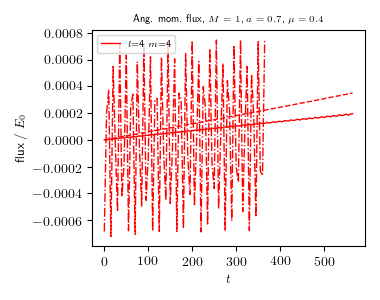
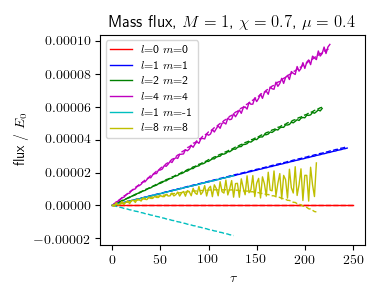
new plots

diff --git a/Analysis/scripts/plot_ang_mom_flux_compare_lm.py b/Analysis/scripts/plot_ang_mom_flux_compare_lm.py
@@ -26,7 +26,7 @@ R_min = 5
 R_max = 500
 average_time = False
 av_n = 1
-plot_mass=False
+plot_ang_mom=False
 cumulative=True
 
 # appropriate \int Ylm Ylm^* cos(2 theta) dtheta dphi factor for 0 <= l <= 10
@@ -55,21 +55,19 @@ def analytic_flux(t, R, l, m, a, mu, cumulative):
 		\int Ylm Ylm^* cos(2 theta) dtheta dphi = 1 
 	# """
 	if not cumulative:
-		
-
-                F0=(m*tau)/2+1/2*m*np.sin(tau)*np.cos(tau)
-                F1=1/2*m*tau*(L-np.cos(2*tau))-1/4*(L-1)*m*np.sin(2*tau)
-                F2=(m*tau*(3*a**2*mu*cos2theta+7*a**2*mu+12*a*m+3*(L-1)*mu*np.cos(2*tau)-4*L*mu))/(4*mu)+(m*np.sin(2*tau)*(-3*a**2*mu*cos2theta-7*a**2*mu-12*a*m+(L+3)*mu))/(8*mu)-m*tau**2*np.sin($
-                F3=(1/(2*mu))*m*tau*(-3*a**2*mu*cos2theta-mu*(a**2+2*L-5)*np.cos(2*tau)+mu*(a**2*(L-11)-L+10)-12*a*m)+(m*np.sin(2*tau)*(3*a**2*mu*cos2theta+a**2*(-(L-12))*mu+12*a*m+3*(L-5)*mu))/($
-                F4=-(1/(24*mu))*m*tau**3*(3*a**2*mu*cos2theta+mu*(9*a**2+L*(3*L+14)-35)+12*a*m+(L+5)*mu*np.cos(2*tau))-(m*tau**2*np.sin(2*tau)*(a**2*mu*cos2theta+mu*(11*a**2+L*(L+3)-20)+4*a*m))/($
-        elif cumulative:
-                F0=(m*tau**2)/(4*mu)+(m*(np.sin(tau)**2))/(4*mu)
-                F1=(L*m*tau**2)/(4*mu)-((L-2)*m*(np.sin(tau)**2))/(4*mu)-(m*tau*np.sin(tau)*np.cos(tau))/(2*mu)
-                F2=(m*tau**2*(3*a**2*mu*cos2theta+7*a**2*mu+12*a*m-4*L*mu+2*mu*np.cos(2*tau)))/(8*mu**2)-(m*(np.sin(tau)**2)*(3*a**2*mu*cos2theta+7*a**2*mu+12*a*m+2*(L-4)*mu))/(8*mu**2)+((3*L-5)*$
-                F3=-((m*tau**2*(6*a**2*mu*cos2theta+2*mu*(a**2*(-(L-11))+L-10)+24*a*m+L*mu*np.cos(2*tau)))/(8*mu**2))+(m*(np.sin(tau)**2)*(6*a**2*mu*cos2theta-2*a**2*(L-13)*mu+24*a*m+(9*L-40)*mu)$
-                F4=-((m*tau**4*(3*a**2*mu*cos2theta+mu*(9*a**2+L*(3*L+14)-35)+12*a*m+mu*np.cos(2*tau)))/(96*mu**2))-(m*tau*np.sin(2*tau)*(3*a**2*mu*cos2theta+3*a**2*(15-4*L)*mu+12*a*m+(L*(3*L+10)$
-        Flux = F0 + F1/r + F2/r**2 + F3/r**3 + F4/r**4
-        return Flux
+		F0=-(m*tau)/2+1/2*m*np.sin(tau)*np.cos(tau)
+		F1=1/2*m*tau*(L-np.cos(2*tau))-1/4*(L-1)*m*np.sin(2*tau)
+		F2=(m*tau*(3*a**2*mu*cos2theta+7*a**2*mu+12*a*m+3*(L-1)*mu*np.cos(2*tau)-4*L*mu))/(4*mu)+(m*np.sin(2*tau)*(-3*a**2*mu*cos2theta-7*a**2*mu-12*a*m+(L+3)*mu))/(8*mu)-m*tau**2*np.sin(tau)*np.cos(tau)
+		F3=(1/(2*mu))*m*tau*(-3*a**2*mu*cos2theta-mu*(a**2+2*L-5)*np.cos(2*tau)+mu*(a**2*(L-11)-L+10)-12*a*m)+(m*np.sin(2*tau)*(3*a**2*mu*cos2theta+a**2*(-(L-12))*mu+12*a*m+3*(L-5)*mu))/(4*mu)+1/6*m*tau**3*(3*L+np.cos(2*tau)-4)+1/4*(L+1)*m*tau**2*np.sin(2*tau)
+		F4=-(1/(24*mu))*m*tau**3*(3*a**2*mu*cos2theta+mu*(9*a**2+L*(3*L+14)-35)+12*a*m+(L+5)*mu*np.cos(2*tau))-(m*tau**2*np.sin(2*tau)*(a**2*mu*cos2theta+mu*(11*a**2+L*(L+3)-20)+4*a*m))/(16*mu)+(1/(4*mu))*tau*(a**2*m*(3*a**2*mu*cos2theta+9*a**2*mu+12*a*m+(3*L-7)*mu*np.cos(2*tau)-8*mu)+m*(np.sin(tau)**2)*(a**2*mu*cos2theta+mu*(3*a**2+L*(L+4)-15)+4*a*m))-(3*a**2*m*np.sin(tau)*np.cos(tau)*(a**2*mu*cos2theta+mu*(3*a**2+L-5)+4*a*m))/(4*mu)-(m*tau**5)/24+1/48*m*tau**4*np.sin(2*tau)
+	elif cumulative:
+		F0=(-(m*tau**2)/4+1/4*m*(np.sin(tau)**2))/mu
+		F1=(1/4*L*m*tau**2-1/4*(L-2)*m*(np.sin(tau)**2)-1/2*m*tau*np.sin(tau)*np.cos(tau))/mu
+		F2=((m*tau**2*(3*a**2*mu*cos2theta+7*a**2*mu+12*a*m-4*L*mu+2*mu*np.cos(2*tau)))/(8*mu)-(m*(np.sin(tau)**2)*(3*a**2*mu*cos2theta+7*a**2*mu+12*a*m+2*(L-4)*mu))/(8*mu)+1/8*(3*L-5)*m*tau*np.sin(2*tau))/mu
+		F3=(-((m*tau**2*(6*a**2*mu*cos2theta+2*mu*(a**2*(-(L-11))+L-10)+24*a*m+L*mu*np.cos(2*tau)))/(8*mu))+(m*(np.sin(tau)**2)*(6*a**2*mu*cos2theta-2*a**2*(L-13)*mu+24*a*m+(9*L-40)*mu))/(8*mu)-1/8*m*tau*(2*a**2+3*L-10)*np.sin(2*tau)+1/24*(3*L-4)*m*tau**4+1/6*m*tau**3*np.sin(tau)*np.cos(tau))/mu
+		F4=(-((m*tau**4*(3*a**2*mu*cos2theta+mu*(9*a**2+L*(3*L+14)-35)+12*a*m+mu*np.cos(2*tau)))/(96*mu))-(m*tau*np.sin(2*tau)*(3*a**2*mu*cos2theta+3*a**2*(15-4*L)*mu+12*a*m+(L*(3*L+10)-54)*mu))/(32*mu)+(1/(32*mu))*m*tau**2*(8*(6*a**3+a)*m+a**2*mu*cos2theta*(12*a**2+np.cos(2*tau)+2)+np.cos(2*tau)*(11*a**2*mu+4*a*m+(L-4)*(L+6)*mu)+2*mu*(18*a**4-13*a**2+L*(L+4)-15))+(1/(32*mu))*m*(np.sin(tau)**2)*(-36*a**4*mu-48*a**3*m+3*(1-4*a**2)*a**2*mu*cos2theta+3*a**2*(35-8*L)*mu+12*a*m+(L*(3*L+10)-54)*mu)-1/48*(L+4)*m*tau**3*np.sin(2*tau)-(m*tau**6)/144)/mu
+	Flux = -(F0 + F1/r + F2/r**2 + F3/r**3 + F4/r**4)
+	return Flux
 
 class data_dir:
 	def __init__(self, num, l, m, a, mu, Al, nphi, ntheta, suffix):
@@ -97,7 +95,7 @@ class data_dir:
 		self.inner_ang_mom_flux = -flux_data[1:,1]/E0
 		self.outer_ang_mom_flux = -flux_data[1:,2]/E0	
 		if cumulative:
-			dt = self.tflux[2] - self.tflux[1]
+			dt = (flux_data[2,0] - flux_data[1,0])
 			#inner_ang_mom_flux = np.cumsum(inner_ang_mom_flux)*dt
 			self.outer_ang_mom_flux = np.cumsum(self.outer_ang_mom_flux)*dt
 		self.analytic_outer_flux = analytic_flux(self.tflux, self.r_max, self.l, self.m, self.a, mu, cumulative)*(4*np.pi)*phi0**2/E0
@@ -110,7 +108,7 @@ class data_dir:
 				self.dang_mom = (ang_mom_data[1:,1] - ang_mom_data[0,1])/E0
 			elif not cumulative:
 				self.tang_mom = ang_mom_line_data[:-1,0]
-				dt = tang_mom[1] - tang_mom[0]
+				dt = ang_mom_data[2,0] - ang_mom_data[1,0]
 				self.tang_mom_mean = 0.5*(self.tang_mom[1:]+self.tang_mom[:-1])
 				self.dang_mom = (ang_mom_line_data[1:,1] - ang_mom_line_data[:-1,1])/(E0*dt)
 				
@@ -137,26 +135,28 @@ run0016_l1_m-1_a0.99_Al0_mu0.4_M1_IsoKerr
 run0017_l1_m1_a0.99_Al0.5_mu0.4_M1_IsoKerr
 run0018_l1_m1_a0.99_Al0.25_mu0.4_M1_IsoKerr"""
 
-#add_data_dir(2, 0, 0, "0.7", "0.4", "0", 64, 64, "_theta_max0.99")
-#add_data_dir(5, 1, 1, "0.7", "0.4", "0", 64, 64, "_theta_max0.99")
-#add_data_dir(7, 2, 2, "0.7", "0.4", "0", 64, 64, "_theta_max0.99")
-#add_data_dir(8, 4, 4, "0.7", "0.4", "0", 64, 64, "_theta_max0.99")
-#add_data_dir(9, 1, -1, "0.7", "0.4", "0", 64, 64, "_theta_max0.99")
+add_data_dir(2, 0, 0, "0.7", "0.4", "0", 64, 64, "_theta_max0.99")
+add_data_dir(5, 1, 1, "0.7", "0.4", "0", 64, 64, "_theta_max0.99")
+add_data_dir(7, 2, 2, "0.7", "0.4", "0", 64, 64, "_theta_max0.99")
+add_data_dir(8, 4, 4, "0.7", "0.4", "0", 64, 64, "_theta_max0.99")
+add_data_dir(9, 1, -1, "0.7", "0.4", "0", 64, 64, "_theta_max0.99")
+add_data_dir(10, 8, 8, "0.7", "0.4", "0", 64, 64, "_theta_max0.99")
+
 #add_data_dir(15, 1, 1, "0.7", "0.4", "0.5", 64, 64, "_theta_max0.99")
 
-add_data_dir(6, 1, 1, "0.99", "0.4", "0", 64, 64, "_theta_max0.99")
+#add_data_dir(6, 1, 1, "0.99", "0.4", "0", 64, 64, "_theta_max0.99")
 #add_data_dir(16, 1, -1, "0.99", "0.4", "0", 64, 64, "_theta_max0.99")
-add_data_dir(17, 1, 1, "0.99", "0.4", "0.5", 64, 64, "_theta_max0.99")
-add_data_dir(18, 1, 1, "0.99", "0.4", "0.25", 64, 64, "_theta_max0.99")
+#add_data_dir(17, 1, 1, "0.99", "0.4", "0.5", 64, 64, "_theta_max0.99")
+#add_data_dir(18, 1, 1, "0.99", "0.4", "0.25", 64, 64, "_theta_max0.99")
 
 def plot_graph():
 	# plot setup
 	ax1 = plt.axes()
 	fig = plt.gcf()
 	fig.set_size_inches(3.8,3)
-	font_size = 5
-	title_font_size = 7
-	label_size = 9
+	font_size = 10
+	title_font_size = 10
+	label_size = 10
 	legend_font_size = 8
 	rc('xtick',labelsize=font_size)
 	rc('ytick',labelsize=font_size)
@@ -166,32 +166,35 @@ def plot_graph():
 	i = 0
 	for dd in data_dirs:
 		dd.load_data()
+		mu = float(dd.mu)
 		#net_flux = outer_ang_mom_flux - inner_ang_mom_flux
 		#label_ = "$\\mu$={:.2f}".format(mu)
-		#label_ = "$l$={:d} $m$={:d}".format(dd.l, dd.m)
-		label_ = "$m$={:d} $\\alpha$={:s}".format(dd.m, dd.Al)
+		label_ = "$l$={:d} $m$={:d}".format(dd.l, dd.m)
+		#label_ = "$m$={:d} $\\alpha$={:s}".format(dd.m, dd.Al)
 		#ax1.plot(dd.tflux,dd.inner_ang_mom_flux,colours[i]+":", label="flux into $R_+$ "+label_)
-		ax1.plot(dd.tflux,dd.outer_ang_mom_flux,colours[i]+"-", label=label_, linewidth=1)
-		ax1.plot(dd.tflux,dd.analytic_outer_flux,colours[i]+"--", label="_4th order t$\\mu$/r analytic flux into R={:.1f} ".format(R_max)+label_, linewidth=1)
+		ax1.plot(dd.tflux*mu,dd.outer_ang_mom_flux,colours[i]+"-", label=label_, linewidth=1)
+		ax1.plot(dd.tflux*mu,dd.analytic_outer_flux,colours[i]+"--", label="_4th order t$\\mu$/r analytic flux into R={:.1f} ".format(R_max)+label_, linewidth=1)
 		#
 		if plot_ang_mom:
 			if cumulative:
-				ax1.plot(dd.tang_mom,dd.dang_mom,colours[i]+"-.", label="_change in ang_mom $R_+<R<${:.1f} ".format(R_max)+label_, linewidth=1)
+				ax1.plot(dd.tang_mom*mu,dd.dang_mom,colours[i]+"-.", label="_change in ang_mom $R_+<R<${:.1f} ".format(R_max)+label_, linewidth=1)
 			elif not cumulative:
-				ax1.plot(dd.tang_mom,dd.dang_mom,colours[i]+"-.", label="_rate of change in ang_mom $R_+<R<${:.1f} ".format(R_max)+label_, linewidth=1)
+				ax1.plot(dd.tang_mom*mu,dd.dang_mom,colours[i]+"-.", label="_rate of change in ang_mom $R_+<R<${:.1f} ".format(R_max)+label_, linewidth=1)
 		i = i + 1
-	ax1.set_xlabel("$t$", fontsize=label_size)
+	ax1.set_xlabel("$\\tau$", fontsize=label_size)
 	#ax1.set_xlim((0, 200))
 	#ax1.set_ylim((0, 0.00001))
 	if cumulative:
 		ax1.set_ylabel("cumulative flux / $E_0$", fontsize=label_size)
-		ax1.set_title("Cumulative ang. mom. flux, $M=1$, $\\mu=0.4$, $l=1$; diff from $\\alpha=0, m=1$", wrap=True, fontsize=title_font_size)
-		save_path = home_path + "plots/ang_mom_flux_in_R{:.0f}_IsoKerr_compare_Al.png".format(R_max)
+		ax1.set_title("Cumulative ang. mom. flux, $M=1$, $\\chi=0.7$, $\\mu=0.4$", wrap=True, fontsize=title_font_size)
+		save_path = home_path + "plots/ang_mom_flux_in_R{:.0f}_IsoKerr_compare_lm_cumulative.png".format(R_max)
 	else:
 		ax1.set_ylabel("flux / $E_0$", fontsize=label_size)
-		plt.title("Mass flux, $M=1$, $\\mu=0.4$, $l=1$")
-		save_path = home_path + "plots/ang_mom_flux_in_R{:.0f}_IsoKerr_compare_Al.png".format(R_max)
+		plt.title("Mass flux, $M=1$, $\\chi=0.7$, $\\mu=0.4$")
+		save_path = home_path + "plots/ang_mom_flux_in_R{:.0f}_IsoKerr_compare_lm.png".format(R_max)
 	ax1.legend(loc='upper left', fontsize=legend_font_size)
+	plt.xticks(fontsize=font_size)
+	plt.yticks(fontsize=font_size)
 	plt.tight_layout()
 	plt.savefig(save_path)
 	print("saved plot as " + str(save_path))

diff --git a/Analysis/scripts/plot_ang_mom_flux.py b/Analysis/scripts/plot_ang_mom_flux.py
@@ -26,8 +26,8 @@ R_min = 5
 R_max = 500
 average_time = False
 av_n = 1
-plot_mass=False
-cumulative=True
+plot_ang_mom=False
+cumulative=False
 
 # appropriate \int Ylm Ylm^* cos(2 theta) dtheta dphi factor for 0 <= l <= 10
 cos2theta_integrals = [[-(1/3)],[1/5,-(3/5)],[1/21,-(1/7),-(5/7)],\
@@ -55,19 +55,19 @@ def analytic_flux(t, R, l, m, a, mu, cumulative):
 		\int Ylm Ylm^* cos(2 theta) dtheta dphi = 1 
 	# """
 	if not cumulative:
-                F0=(m*tau)/2+1/2*m*np.sin(tau)*np.cos(tau)
-                F1=1/2*m*tau*(L-np.cos(2*tau))-1/4*(L-1)*m*np.sin(2*tau)
-                F2=(m*tau*(3*a**2*mu*cos2theta+7*a**2*mu+12*a*m+3*(L-1)*mu*np.cos(2*tau)-4*L*mu))/(4*mu)+(m*np.sin(2*tau)*(-3*a**2*mu*cos2theta-7*a**2*mu-12*a*m+(L+3)*mu))/(8*mu)-m*tau**2*np.sin($
-                F3=(1/(2*mu))*m*tau*(-3*a**2*mu*cos2theta-mu*(a**2+2*L-5)*np.cos(2*tau)+mu*(a**2*(L-11)-L+10)-12*a*m)+(m*np.sin(2*tau)*(3*a**2*mu*cos2theta+a**2*(-(L-12))*mu+12*a*m+3*(L-5)*mu))/($
-                F4=-(1/(24*mu))*m*tau**3*(3*a**2*mu*cos2theta+mu*(9*a**2+L*(3*L+14)-35)+12*a*m+(L+5)*mu*np.cos(2*tau))-(m*tau**2*np.sin(2*tau)*(a**2*mu*cos2theta+mu*(11*a**2+L*(L+3)-20)+4*a*m))/($
-        elif cumulative:
-                F0=(m*tau**2)/(4*mu)+(m*(np.sin(tau)**2))/(4*mu)
-                F1=(L*m*tau**2)/(4*mu)-((L-2)*m*(np.sin(tau)**2))/(4*mu)-(m*tau*np.sin(tau)*np.cos(tau))/(2*mu)
-                F2=(m*tau**2*(3*a**2*mu*cos2theta+7*a**2*mu+12*a*m-4*L*mu+2*mu*np.cos(2*tau)))/(8*mu**2)-(m*(np.sin(tau)**2)*(3*a**2*mu*cos2theta+7*a**2*mu+12*a*m+2*(L-4)*mu))/(8*mu**2)+((3*L-5)*$
-                F3=-((m*tau**2*(6*a**2*mu*cos2theta+2*mu*(a**2*(-(L-11))+L-10)+24*a*m+L*mu*np.cos(2*tau)))/(8*mu**2))+(m*(np.sin(tau)**2)*(6*a**2*mu*cos2theta-2*a**2*(L-13)*mu+24*a*m+(9*L-40)*mu)$
-                F4=-((m*tau**4*(3*a**2*mu*cos2theta+mu*(9*a**2+L*(3*L+14)-35)+12*a*m+mu*np.cos(2*tau)))/(96*mu**2))-(m*tau*np.sin(2*tau)*(3*a**2*mu*cos2theta+3*a**2*(15-4*L)*mu+12*a*m+(L*(3*L+10)$
-        Flux = F0 + F1/r + F2/r**2 + F3/r**3 + F4/r**4
-        return Flux
+		F0=-(m*tau)/2+1/2*m*np.sin(tau)*np.cos(tau)
+		F1=1/2*m*tau*(L-np.cos(2*tau))-1/4*(L-1)*m*np.sin(2*tau)
+		F2=(m*tau*(3*a**2*mu*cos2theta+7*a**2*mu+12*a*m+3*(L-1)*mu*np.cos(2*tau)-4*L*mu))/(4*mu)+(m*np.sin(2*tau)*(-3*a**2*mu*cos2theta-7*a**2*mu-12*a*m+(L+3)*mu))/(8*mu)-m*tau**2*np.sin(tau)*np.cos(tau)
+		F3=(1/(2*mu))*m*tau*(-3*a**2*mu*cos2theta-mu*(a**2+2*L-5)*np.cos(2*tau)+mu*(a**2*(L-11)-L+10)-12*a*m)+(m*np.sin(2*tau)*(3*a**2*mu*cos2theta+a**2*(-(L-12))*mu+12*a*m+3*(L-5)*mu))/(4*mu)+1/6*m*tau**3*(3*L+np.cos(2*tau)-4)+1/4*(L+1)*m*tau**2*np.sin(2*tau)
+		F4=-(1/(24*mu))*m*tau**3*(3*a**2*mu*cos2theta+mu*(9*a**2+L*(3*L+14)-35)+12*a*m+(L+5)*mu*np.cos(2*tau))-(m*tau**2*np.sin(2*tau)*(a**2*mu*cos2theta+mu*(11*a**2+L*(L+3)-20)+4*a*m))/(16*mu)+(1/(4*mu))*tau*(a**2*m*(3*a**2*mu*cos2theta+9*a**2*mu+12*a*m+(3*L-7)*mu*np.cos(2*tau)-8*mu)+m*(np.sin(tau)**2)*(a**2*mu*cos2theta+mu*(3*a**2+L*(L+4)-15)+4*a*m))-(3*a**2*m*np.sin(tau)*np.cos(tau)*(a**2*mu*cos2theta+mu*(3*a**2+L-5)+4*a*m))/(4*mu)-(m*tau**5)/24+1/48*m*tau**4*np.sin(2*tau)
+	elif cumulative:
+		F0=-(m*tau**2)/4+1/4*m*(np.sin(tau)**2)
+		F1=1/4*L*m*tau**2-1/4*(L-2)*m*(np.sin(tau)**2)-1/2*m*tau*np.sin(tau)*np.cos(tau)
+		F2=(m*tau**2*(3*a**2*mu*cos2theta+7*a**2*mu+12*a*m-4*L*mu+2*mu*np.cos(2*tau)))/(8*mu)-(m*(np.sin(tau)**2)*(3*a**2*mu*cos2theta+7*a**2*mu+12*a*m+2*(L-4)*mu))/(8*mu)+1/8*(3*L-5)*m*tau*np.sin(2*tau)
+		F3=-((m*tau**2*(6*a**2*mu*cos2theta+2*mu*(a**2*(-(L-11))+L-10)+24*a*m+L*mu*np.cos(2*tau)))/(8*mu))+(m*(np.sin(tau)**2)*(6*a**2*mu*cos2theta-2*a**2*(L-13)*mu+24*a*m+(9*L-40)*mu))/(8*mu)-1/8*m*tau*(2*a**2+3*L-10)*np.sin(2*tau)+1/24*(3*L-4)*m*tau**4+1/6*m*tau**3*np.sin(tau)*np.cos(tau)
+		F4=-((m*tau**4*(3*a**2*mu*cos2theta+mu*(9*a**2+L*(3*L+14)-35)+12*a*m+mu*np.cos(2*tau)))/(96*mu))-(m*tau*np.sin(2*tau)*(3*a**2*mu*cos2theta+3*a**2*(15-4*L)*mu+12*a*m+(L*(3*L+10)-54)*mu))/(32*mu)+(1/(32*mu))*m*tau**2*(8*(6*a**3+a)*m+a**2*mu*cos2theta*(12*a**2+np.cos(2*tau)+2)+np.cos(2*tau)*(11*a**2*mu+4*a*m+(L-4)*(L+6)*mu)+2*mu*(18*a**4-13*a**2+L*(L+4)-15))+(1/(32*mu))*m*(np.sin(tau)**2)*(-36*a**4*mu-48*a**3*m+3*(1-4*a**2)*a**2*mu*cos2theta+3*a**2*(35-8*L)*mu+12*a*m+(L*(3*L+10)-54)*mu)-1/48*(L+4)*m*tau**3*np.sin(2*tau)-(m*tau**6)/144
+	Flux = -(F0 + F1/r + F2/r**2 + F3/r**3 + F4/r**4)
+	return Flux
 
 class data_dir:
 	def __init__(self, num, l, m, a, mu, Al, nphi, ntheta, suffix):
@@ -88,14 +88,14 @@ class data_dir:
 		flux_data = np.genfromtxt(file_name, skip_header=1)
 		print("loaded " + file_name)
 		mu = float(self.mu)
-		self.tflux = flux_data[1:,0]
+		self.tflux = flux_data[1:,0]*mu
 		self.r_min = flux_data[0,1]
 		self.r_max = flux_data[0,2]
 		E0 = 0.5*(4*np.pi*(self.r_max**3)/3)*(phi0*mu)**2
 		self.inner_ang_mom_flux = -flux_data[1:,1]/E0
 		self.outer_ang_mom_flux = -flux_data[1:,2]/E0	
 		if cumulative:
-			dt = self.tflux[2] - self.tflux[1]
+			dt = (flux_data[2,0] - flux_data[1,0])
 			#inner_ang_mom_flux = np.cumsum(inner_ang_mom_flux)*dt
 			self.outer_ang_mom_flux = np.cumsum(self.outer_ang_mom_flux)*dt
 		self.analytic_outer_flux = analytic_flux(self.tflux, self.r_max, self.l, self.m, self.a, mu, cumulative)*(4*np.pi)*phi0**2/E0
@@ -104,11 +104,11 @@ class data_dir:
 			self.ang_mom_data = np.genfromtxt(file_name, skip_header=1)
 			print("loaded " + file_name)
 			if cumulative:
-				self.tang_mom = ang_mom_data[1:,0]
+				self.tang_mom = ang_mom_data[1:,0]*mu
 				self.dang_mom = (ang_mom_data[1:,1] - ang_mom_data[0,1])/E0
 			elif not cumulative:
 				self.tang_mom = ang_mom_line_data[:-1,0]
-				dt = tang_mom[1] - tang_mom[0]
+				dt = ang_mom_data[2,0] - ang_mom_data[1,0]
 				self.tang_mom_mean = 0.5*(self.tang_mom[1:]+self.tang_mom[:-1])
 				self.dang_mom = (ang_mom_line_data[1:,1] - ang_mom_line_data[:-1,1])/(E0*dt)
 				
@@ -135,26 +135,28 @@ run0016_l1_m-1_a0.99_Al0_mu0.4_M1_IsoKerr
 run0017_l1_m1_a0.99_Al0.5_mu0.4_M1_IsoKerr
 run0018_l1_m1_a0.99_Al0.25_mu0.4_M1_IsoKerr"""
 
-#add_data_dir(2, 0, 0, "0.7", "0.4", "0", 64, 64, "_theta_max0.99")
-#add_data_dir(5, 1, 1, "0.7", "0.4", "0", 64, 64, "_theta_max0.99")
-#add_data_dir(7, 2, 2, "0.7", "0.4", "0", 64, 64, "_theta_max0.99")
-#add_data_dir(8, 4, 4, "0.7", "0.4", "0", 64, 64, "_theta_max0.99")
-#add_data_dir(9, 1, -1, "0.7", "0.4", "0", 64, 64, "_theta_max0.99")
+add_data_dir(2, 0, 0, "0.7", "0.4", "0", 64, 64, "_theta_max0.99")
+add_data_dir(5, 1, 1, "0.7", "0.4", "0", 64, 64, "_theta_max0.99")
+add_data_dir(7, 2, 2, "0.7", "0.4", "0", 64, 64, "_theta_max0.99")
+add_data_dir(8, 4, 4, "0.7", "0.4", "0", 64, 64, "_theta_max0.99")
+add_data_dir(9, 1, -1, "0.7", "0.4", "0", 64, 64, "_theta_max0.99")
+add_data_dir(10, 8, 8, "0.7", "0.4", "0", 64, 64, "_theta_max0.99")
+
 #add_data_dir(15, 1, 1, "0.7", "0.4", "0.5", 64, 64, "_theta_max0.99")
 
-add_data_dir(6, 1, 1, "0.99", "0.4", "0", 64, 64, "_theta_max0.99")
+#add_data_dir(6, 1, 1, "0.99", "0.4", "0", 64, 64, "_theta_max0.99")
 #add_data_dir(16, 1, -1, "0.99", "0.4", "0", 64, 64, "_theta_max0.99")
-add_data_dir(17, 1, 1, "0.99", "0.4", "0.5", 64, 64, "_theta_max0.99")
-add_data_dir(18, 1, 1, "0.99", "0.4", "0.25", 64, 64, "_theta_max0.99")
+#add_data_dir(17, 1, 1, "0.99", "0.4", "0.5", 64, 64, "_theta_max0.99")
+#add_data_dir(18, 1, 1, "0.99", "0.4", "0.25", 64, 64, "_theta_max0.99")
 
 def plot_graph():
 	# plot setup
 	ax1 = plt.axes()
 	fig = plt.gcf()
 	fig.set_size_inches(3.8,3)
-	font_size = 5
-	title_font_size = 7
-	label_size = 9
+	font_size = 10
+	title_font_size = 10
+	label_size = 10
 	legend_font_size = 8
 	rc('xtick',labelsize=font_size)
 	rc('ytick',labelsize=font_size)
@@ -166,8 +168,8 @@ def plot_graph():
 		dd.load_data()
 		#net_flux = outer_ang_mom_flux - inner_ang_mom_flux
 		#label_ = "$\\mu$={:.2f}".format(mu)
-		#label_ = "$l$={:d} $m$={:d}".format(dd.l, dd.m)
-		label_ = "$m$={:d} $\\alpha$={:s}".format(dd.m, dd.Al)
+		label_ = "$l$={:d} $m$={:d}".format(dd.l, dd.m)
+		#label_ = "$m$={:d} $\\alpha$={:s}".format(dd.m, dd.Al)
 		#ax1.plot(dd.tflux,dd.inner_ang_mom_flux,colours[i]+":", label="flux into $R_+$ "+label_)
 		ax1.plot(dd.tflux,dd.outer_ang_mom_flux,colours[i]+"-", label=label_, linewidth=1)
 		ax1.plot(dd.tflux,dd.analytic_outer_flux,colours[i]+"--", label="_4th order t$\\mu$/r analytic flux into R={:.1f} ".format(R_max)+label_, linewidth=1)
@@ -178,17 +180,17 @@ def plot_graph():
 			elif not cumulative:
 				ax1.plot(dd.tang_mom,dd.dang_mom,colours[i]+"-.", label="_rate of change in ang_mom $R_+<R<${:.1f} ".format(R_max)+label_, linewidth=1)
 		i = i + 1
-	ax1.set_xlabel("$t$", fontsize=label_size)
+	ax1.set_xlabel("$\\tau$", fontsize=label_size)
 	#ax1.set_xlim((0, 200))
 	#ax1.set_ylim((0, 0.00001))
 	if cumulative:
 		ax1.set_ylabel("cumulative flux / $E_0$", fontsize=label_size)
-		ax1.set_title("Cumulative ang. mom. flux, $M=1$, $\\mu=0.4$, $l=1$; diff from $\\alpha=0, m=1$", wrap=True, fontsize=title_font_size)
-		save_path = home_path + "plots/ang_mom_flux_in_R{:.0f}_IsoKerr_compare_Al.png".format(R_max)
+		ax1.set_title("Cumulative ang. mom. flux, $M=1$, $\\chi=0.7$, $\\mu=0.4$", wrap=True, fontsize=title_font_size)
+		save_path = home_path + "plots/ang_mom_flux_in_R{:.0f}_IsoKerr_compare_lm_cumulative.png".format(R_max)
 	else:
 		ax1.set_ylabel("flux / $E_0$", fontsize=label_size)
-		plt.title("Mass flux, $M=1$, $\\mu=0.4$, $l=1$")
-		save_path = home_path + "plots/ang_mom_flux_in_R{:.0f}_IsoKerr_compare_Al.png".format(R_max)
+		plt.title("Mass flux, $M=1$, $\\chi=0.7$, $\\mu=0.4$")
+		save_path = home_path + "plots/ang_mom_flux_in_R{:.0f}_IsoKerr_compare_lm.png".format(R_max)
 	ax1.legend(loc='upper left', fontsize=legend_font_size)
 	plt.tight_layout()
 	plt.savefig(save_path)
